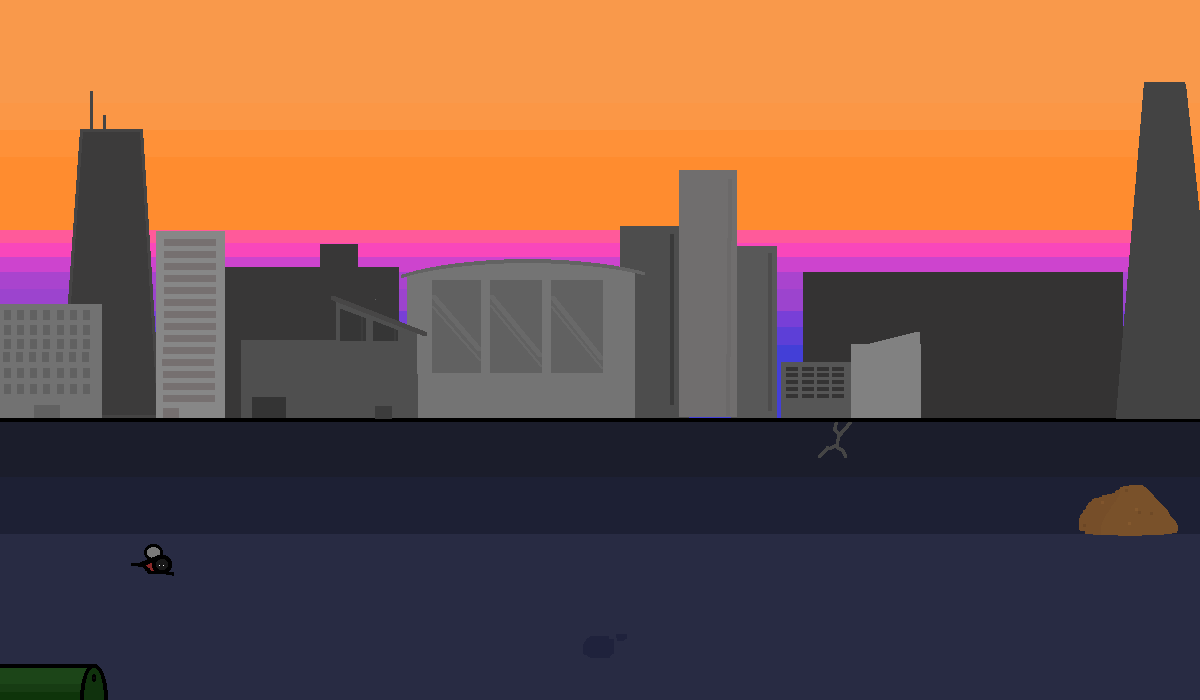
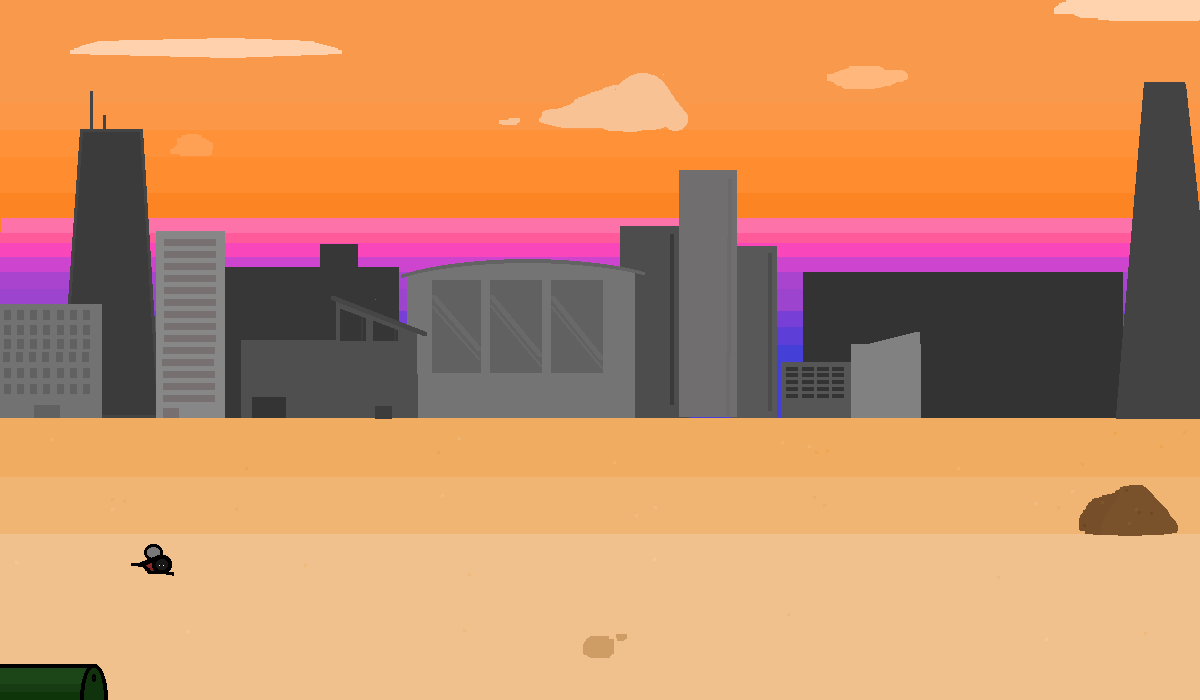
Added backdrop and fixed thread errors
Fixed an error where all threads would pause when collecting items. Added backdrop to game and finalized animations. Will work on a title screen background and a shop screen tomorrow

diff --git a/src/sprites/GarbagePlayer.java b/src/sprites/GarbagePlayer.java
@@ -13,6 +13,7 @@ public class GarbagePlayer extends cleanUpPlayers implements Runnable {
 	private boolean activeAnimation = false;
 	private boolean collecting = false;
 	private Collectable targetItem;
+	private Collectable tempItem; //used to keep the target item if the thread sets the target to null early
 	private int multiplier = 900;
 	private int movementSpeed = 4;
 	Random rand = new Random();
@@ -20,7 +21,7 @@ public class GarbagePlayer extends cleanUpPlayers implements Runnable {
 	public GarbagePlayer() {
 		super(new ArrayList<Image>(Arrays.asList(new Image("file:Images/player_r2.png"), new Image("file:Images/player_r3.png"),
 				new Image("file:Images/player_r1.png"), new Image("file:Images/player_l2.png"), new Image("file:Images/player_l3.png"),
-				new Image("file:Images/player_l1.png"))), 500, 400, 15, 41);
+				new Image("file:Images/player_l1.png"))), 500, 375, 15, 41);
 		// TODO Auto-generated constructor stub
 		this.spriteImages = new ArrayList<Image>(Arrays.asList(new Image("file:Images/player_r2.png"), new Image("file:Images/player_r3.png"),
 				new Image("file:Images/player_r1.png"), new Image("file:Images/player_l2.png"), new Image("file:Images/player_l3.png"),
@@ -62,7 +63,7 @@ public class GarbagePlayer extends cleanUpPlayers implements Runnable {
 	
 	private void collectTarget() throws InterruptedException {
 		try {
-			int time = (this.targetItem.getHP() + rand.nextInt((this.targetItem.getHP()/2) + 1)) * this.multiplier;
+			int time = (this.tempItem.getHP() + rand.nextInt((this.tempItem.getHP()/2) + 1)) * this.multiplier;
 			Thread.sleep(time);
 			
 		} catch(IllegalArgumentException e) {
@@ -91,6 +92,7 @@ public class GarbagePlayer extends cleanUpPlayers implements Runnable {
 	
 	public void setTarget(Collectable target) {
 		this.targetItem = target;
+		this.tempItem = target;
 	}
 	
 	public Collectable getTarget() {
@@ -129,6 +131,4 @@ public class GarbagePlayer extends cleanUpPlayers implements Runnable {
 			}
 		}
 	}
-	
-
 }

diff --git a/src/mainGame/GameView.java b/src/mainGame/GameView.java
@@ -14,12 +14,13 @@ import sprites.PileItem;
 import sprites.garbageItem;
 import utils.Action;
 import utils.Observer;
+import utils.ObserverPickup;
 import utils.TrashList;
 
-public class GameView implements Observer {
+public class GameView implements Observer, ObserverPickup {
 	
 	Stage stage;
-	Model model;
+	public Model model;
 	BorderPane borderPane;
 	GameController gamePane;
 	Random rand = new Random();
@@ -36,8 +37,7 @@ public class GameView implements Observer {
 			this.model = model;
 			this.commandQueue = new ArrayList<Action>();
 			this.timer = new TrashTimer();
-			timer.setObservingView(this);
-			this.timer.notifyObserver();
+			
 	}
 	//To do (May 6): start on the shop screen and create the power-ups.
 	//Consider changing the game font.
@@ -89,6 +89,8 @@ public class GameView implements Observer {
 		VBox box = new VBox(gamePane);
 		box.setAlignment(Pos.CENTER);
 		borderPane.setCenter(box);
+		timer.setObservingView(this);
+		this.timer.notifyObserver();
 	}
 	
 	protected void setLeftKey(Action action) {
@@ -166,6 +168,21 @@ public class GameView implements Observer {
 				}
 			}
 		});
+	}
+
+
+	@Override
+	public void update(Collectable observableState) {
+		// TODO Auto-generated method stub
+		Platform.runLater(new Runnable() {
+		    @Override
+		    public void run() {
+		        // Update UI here.
+		    	gamePane.removeElement(observableState);
+				model.movePlayer.setTarget(null);
+		    }
+		});
+		
 	}
 	
 }

diff --git a/src/sprites/garbageItem.java b/src/sprites/garbageItem.java
@@ -4,16 +4,18 @@ import java.util.ArrayList;
 import java.util.Arrays;
 import java.util.Random;
 import javafx.scene.image.Image;
+import utils.ObserverPickup;
 
 public class garbageItem extends Collectable implements Runnable{
 	
 	static Random rand = new Random();
 	private int animationSet;
+	private ObserverPickup view;
 
 	public garbageItem() {
 		super(new ArrayList<Image>(Arrays.asList(new Image("file:Images/Garbage1-Undamaged.png"), new Image("file:Images/Garbage1-SlightDamage.png"),
 				new Image("file:Images/Garbage1-Destroyed.png"), new Image("file:Images/Garbage2-Undamaged.png"), 
-				new Image("file:Images/Garbage2-Destroyed.png"))), rand.nextInt(3) + 2, 415);
+				new Image("file:Images/Garbage2-Destroyed.png"))), rand.nextInt(3) + 2, 390);
 		// TODO Auto-generated constructor stub
 		chooseSprite();
 	}
@@ -102,6 +104,25 @@ public class garbageItem extends Collectable implements Runnable{
 			}
 		}
 		System.out.print("finished");
+		notifyObserver();
+	}
+
+	@Override
+	public void setObservingView(ObserverPickup op) {
+		// TODO Auto-generated method stub
+		this.view = op;
+	}
+
+	@Override
+	public void notifyObserver() {
+		// TODO Auto-generated method stub
+		this.view.update(this);
+	}
+
+	@Override
+	public void removeObservingView(ObserverPickup op) {
+		// TODO Auto-generated method stub
+		this.view = null;
 	}
 	
 

diff --git a/src/mainGame/GameController.java b/src/mainGame/GameController.java
@@ -4,6 +4,12 @@ import java.util.ArrayList;
 import java.util.Hashtable;
 
 import javafx.geometry.Pos;
+import javafx.scene.image.Image;
+import javafx.scene.layout.Background;
+import javafx.scene.layout.BackgroundImage;
+import javafx.scene.layout.BackgroundPosition;
+import javafx.scene.layout.BackgroundRepeat;
+import javafx.scene.layout.BackgroundSize;
 import javafx.scene.layout.Pane;
 import sprites.Collectable;
 import sprites.Sprite;
@@ -20,6 +26,14 @@ public class GameController extends Pane {
 		this.setPrefSize(1200, 700);
 		this.setMinSize(1200, 700);
 		this.setMaxSize(1200, 700);
+		Image backdropImage = new Image("file:Images/Backdrop.png");
+		BackgroundImage backgroundimage = new BackgroundImage(backdropImage, 
+                BackgroundRepeat.NO_REPEAT, 
+                BackgroundRepeat.NO_REPEAT, 
+                BackgroundPosition.DEFAULT, 
+                   BackgroundSize.DEFAULT);
+		Background background = new Background(backgroundimage);
+		this.setBackground(background);
 		createScreen();
 	}
 	

diff --git a/src/sprites/PileItem.java b/src/sprites/PileItem.java
@@ -5,6 +5,7 @@ import java.util.Arrays;
 import java.util.Random;
 
 import javafx.scene.image.Image;
+import utils.ObserverPickup;
 
 public class PileItem extends Collectable{
 	
@@ -12,12 +13,30 @@ public class PileItem extends Collectable{
 
 	public PileItem() {
 		super(new ArrayList<Image>(Arrays.asList(new Image("file:Images/BigGarbage-Undamaged.png"),
-				new Image("file:Images/BigGarbage-Destroyed.png"))), rand.nextInt(5) + 3, 375);
+				new Image("file:Images/BigGarbage-Destroyed.png"))), rand.nextInt(5) + 3, 350);
 		// TODO Auto-generated constructor stub
 	}
 
 	@Override
 	public void run() {
+		// TODO Auto-generated method stub
+		
+	}
+
+	@Override
+	public void setObservingView(ObserverPickup op) {
+		// TODO Auto-generated method stub
+		
+	}
+
+	@Override
+	public void notifyObserver() {
+		// TODO Auto-generated method stub
+		
+	}
+
+	@Override
+	public void removeObservingView(ObserverPickup op) {
 		// TODO Auto-generated method stub
 		
 	}

diff --git a/src/mainGame/CollectAction.java b/src/mainGame/CollectAction.java
@@ -28,15 +28,9 @@ public class CollectAction implements Action{
 		}
 		this.view.model.movePlayer.setTarget(res);
 		this.view.model.movePlayer.setCollecting(true);
-		Thread playerThread = this.view.model.startThread();
-		Thread thread = this.view.model.startGarbageThread();
-		if (thread != null) {
-			while(thread.isAlive());
-			while(playerThread.isAlive());
-			this.view.gamePane.removeElement(this.view.model.movePlayer.getTarget());
-			while(this.view.model.movePlayer.isCollecting());
-			this.view.model.movePlayer.setTarget(null);
-		}
+		res.setObservingView(view);
+		this.view.model.startThread();
+		this.view.model.startGarbageThread();
 	}
 
 	@Override

diff --git a/src/sprites/Collectable.java b/src/sprites/Collectable.java
@@ -4,8 +4,9 @@ import java.util.ArrayList;
 import java.util.Random;
 import javafx.scene.image.Image;
 import javafx.scene.image.ImageView;
+import utils.ObservablePickup;
 
-public abstract class Collectable extends Sprite implements Runnable {
+public abstract class Collectable extends Sprite implements Runnable, ObservablePickup {
 
 	static Random rand = new Random();
 	private int hp;

diff --git a/src/mainGame/Model.java b/src/mainGame/Model.java
@@ -23,7 +23,7 @@ public class Model {
 	private Collectable newestCollectable = null;
 	Random rand;
 	
-	protected GarbagePlayer movePlayer = new GarbagePlayer();
+	public GarbagePlayer movePlayer = new GarbagePlayer();
 	
 	public void fillHash() {
 		for (int i = 0; i < hashSize; i++) {

diff --git a/src/mainGame/App.java b/src/mainGame/App.java
@@ -3,6 +3,8 @@ package mainGame;
 import javafx.application.Application;
 import javafx.scene.input.KeyCode;
 import javafx.stage.Stage;
+import utils.LeftAction;
+import utils.RightAction;
 
 public class App extends Application {
 	

diff --git a/src/utils/ObservablePickup.java b/src/utils/ObservablePickup.java
@@ -1,0 +1,10 @@
+package utils;
+
+public interface ObservablePickup {
+	
+	void setObservingView(ObserverPickup op);
+	void notifyObserver();
+	void removeObservingView(ObserverPickup op);
+	
+
+}

diff --git a/src/utils/LeftAction.java b/src/utils/LeftAction.java
@@ -1,7 +1,7 @@
-package mainGame;
+package utils;
 
 import javafx.scene.input.KeyCode;
-import utils.Action;
+import mainGame.GameView;
 
 public class LeftAction implements Action {
 	

diff --git a/src/utils/RightAction.java b/src/utils/RightAction.java
@@ -1,7 +1,7 @@
-package mainGame;
+package utils;
 
 import javafx.scene.input.KeyCode;
-import utils.Action;
+import mainGame.GameView;
 
 public class RightAction implements Action {
 
